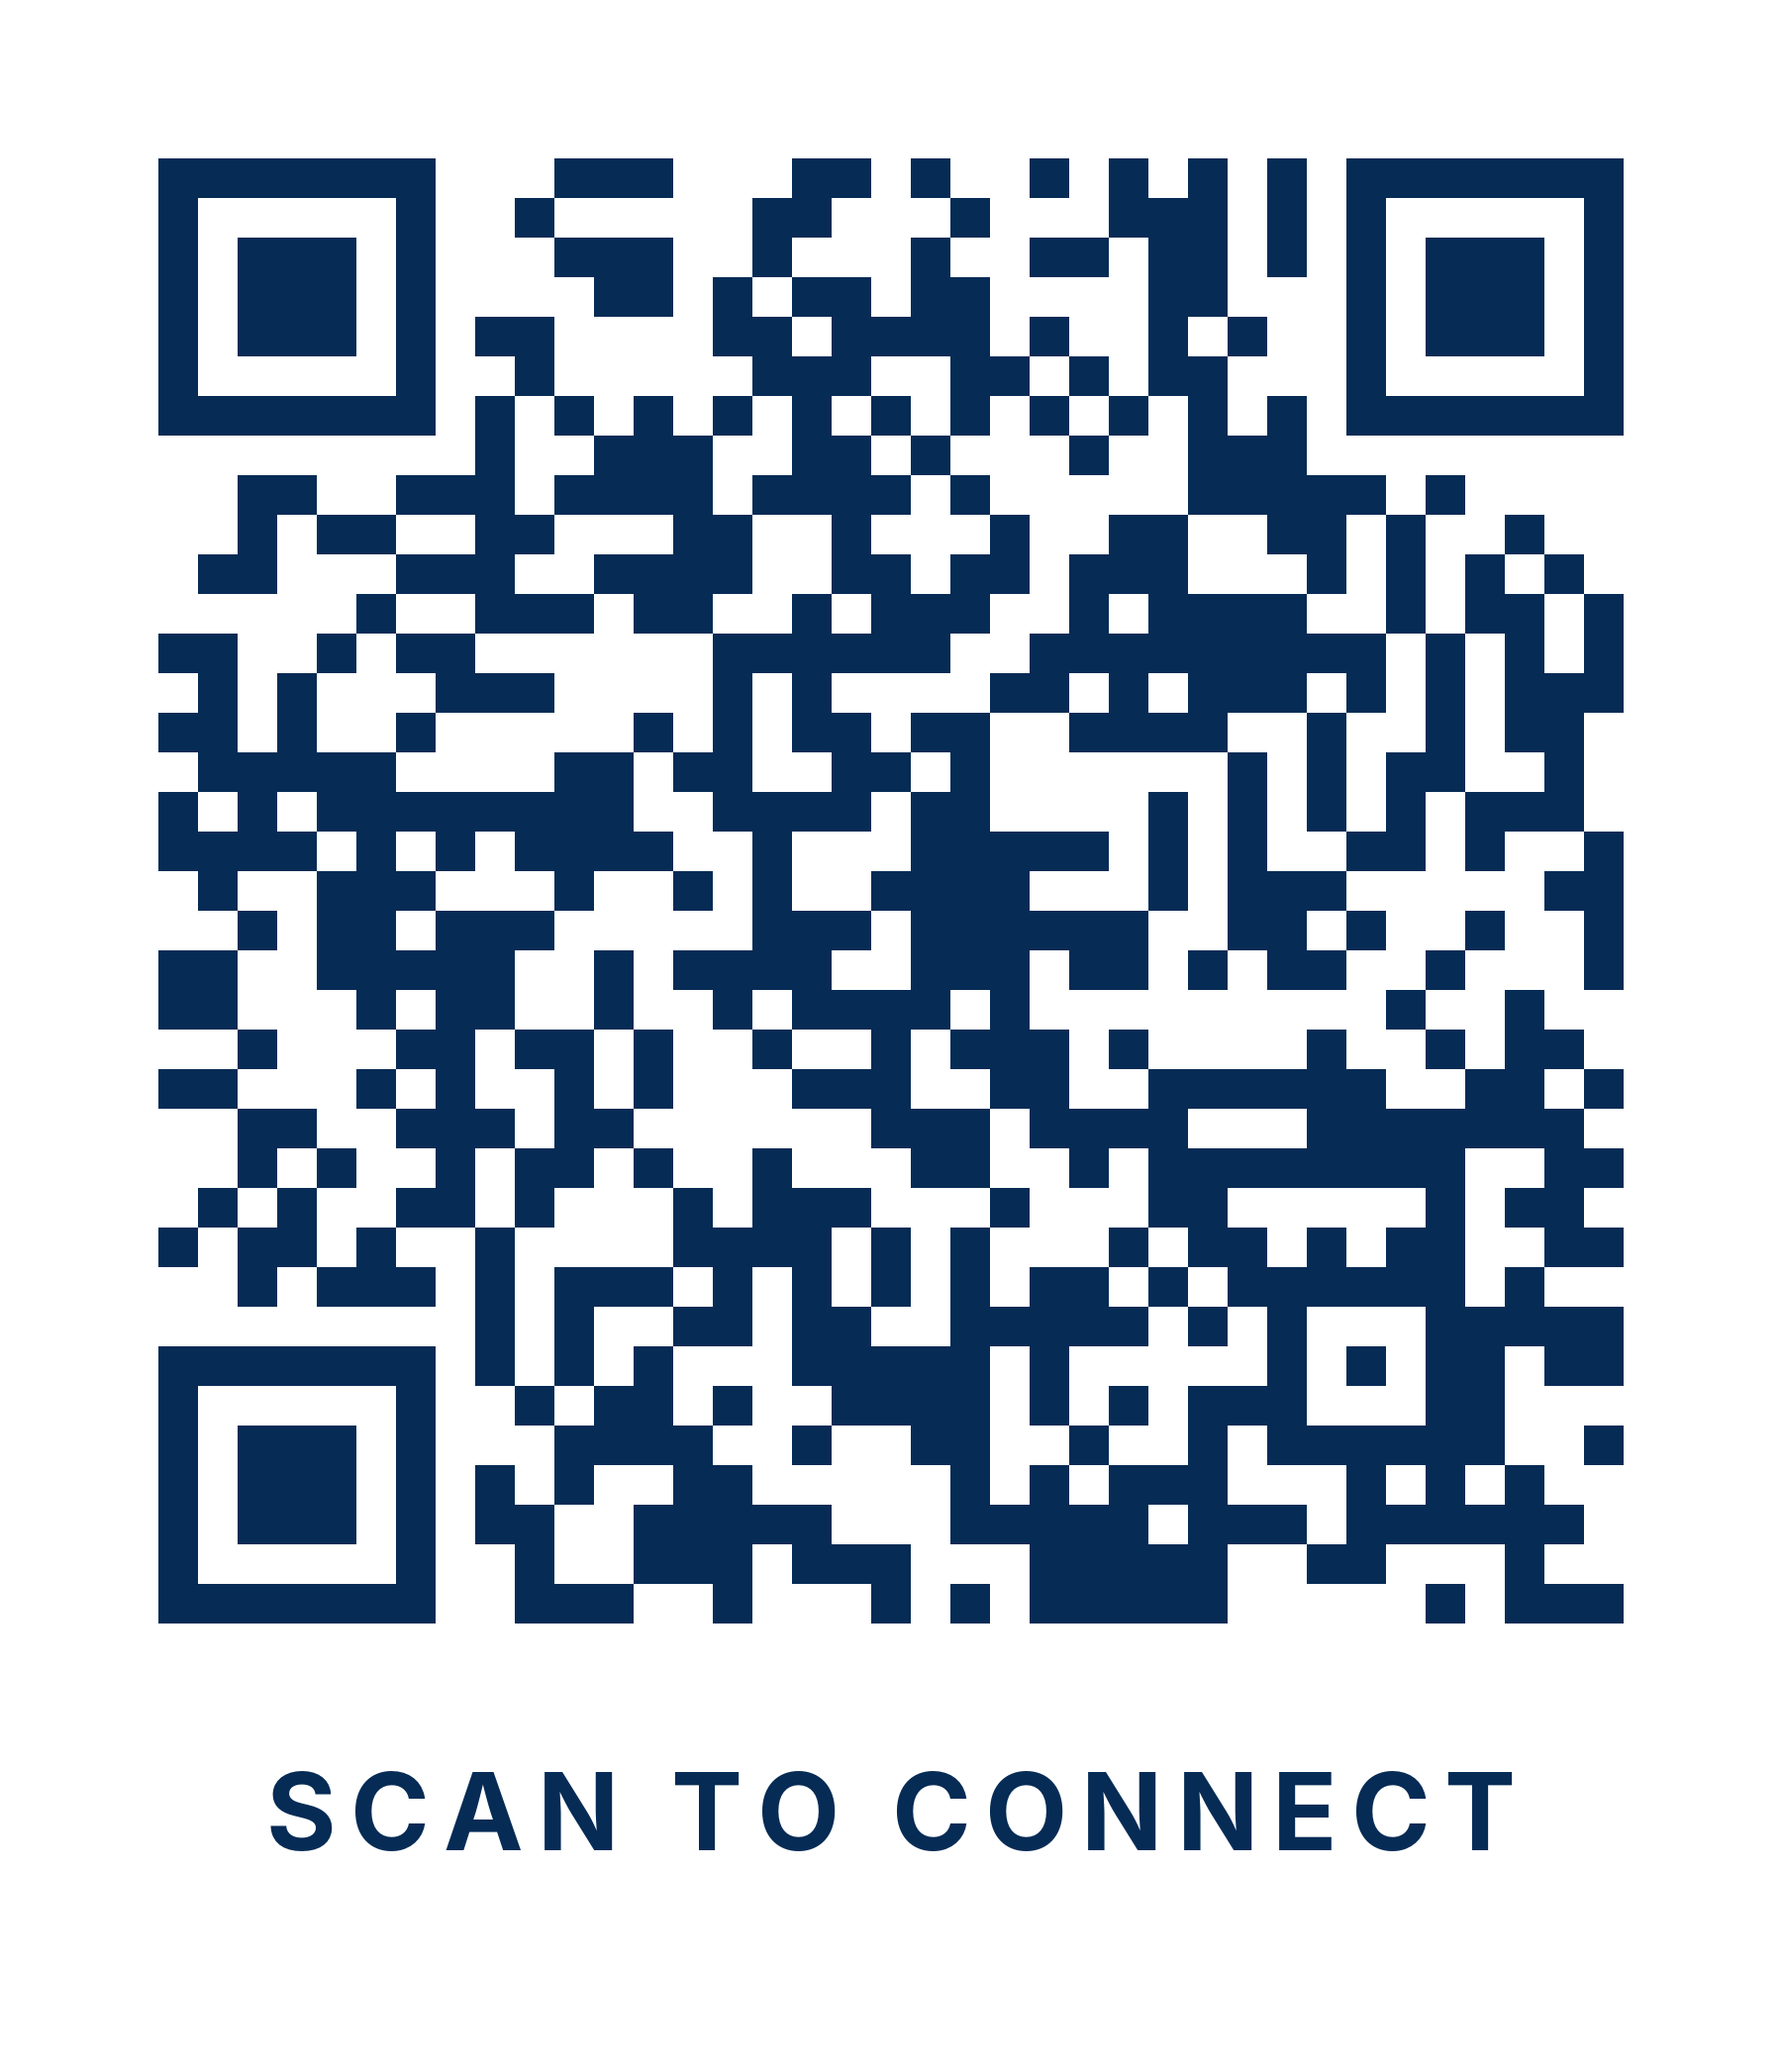
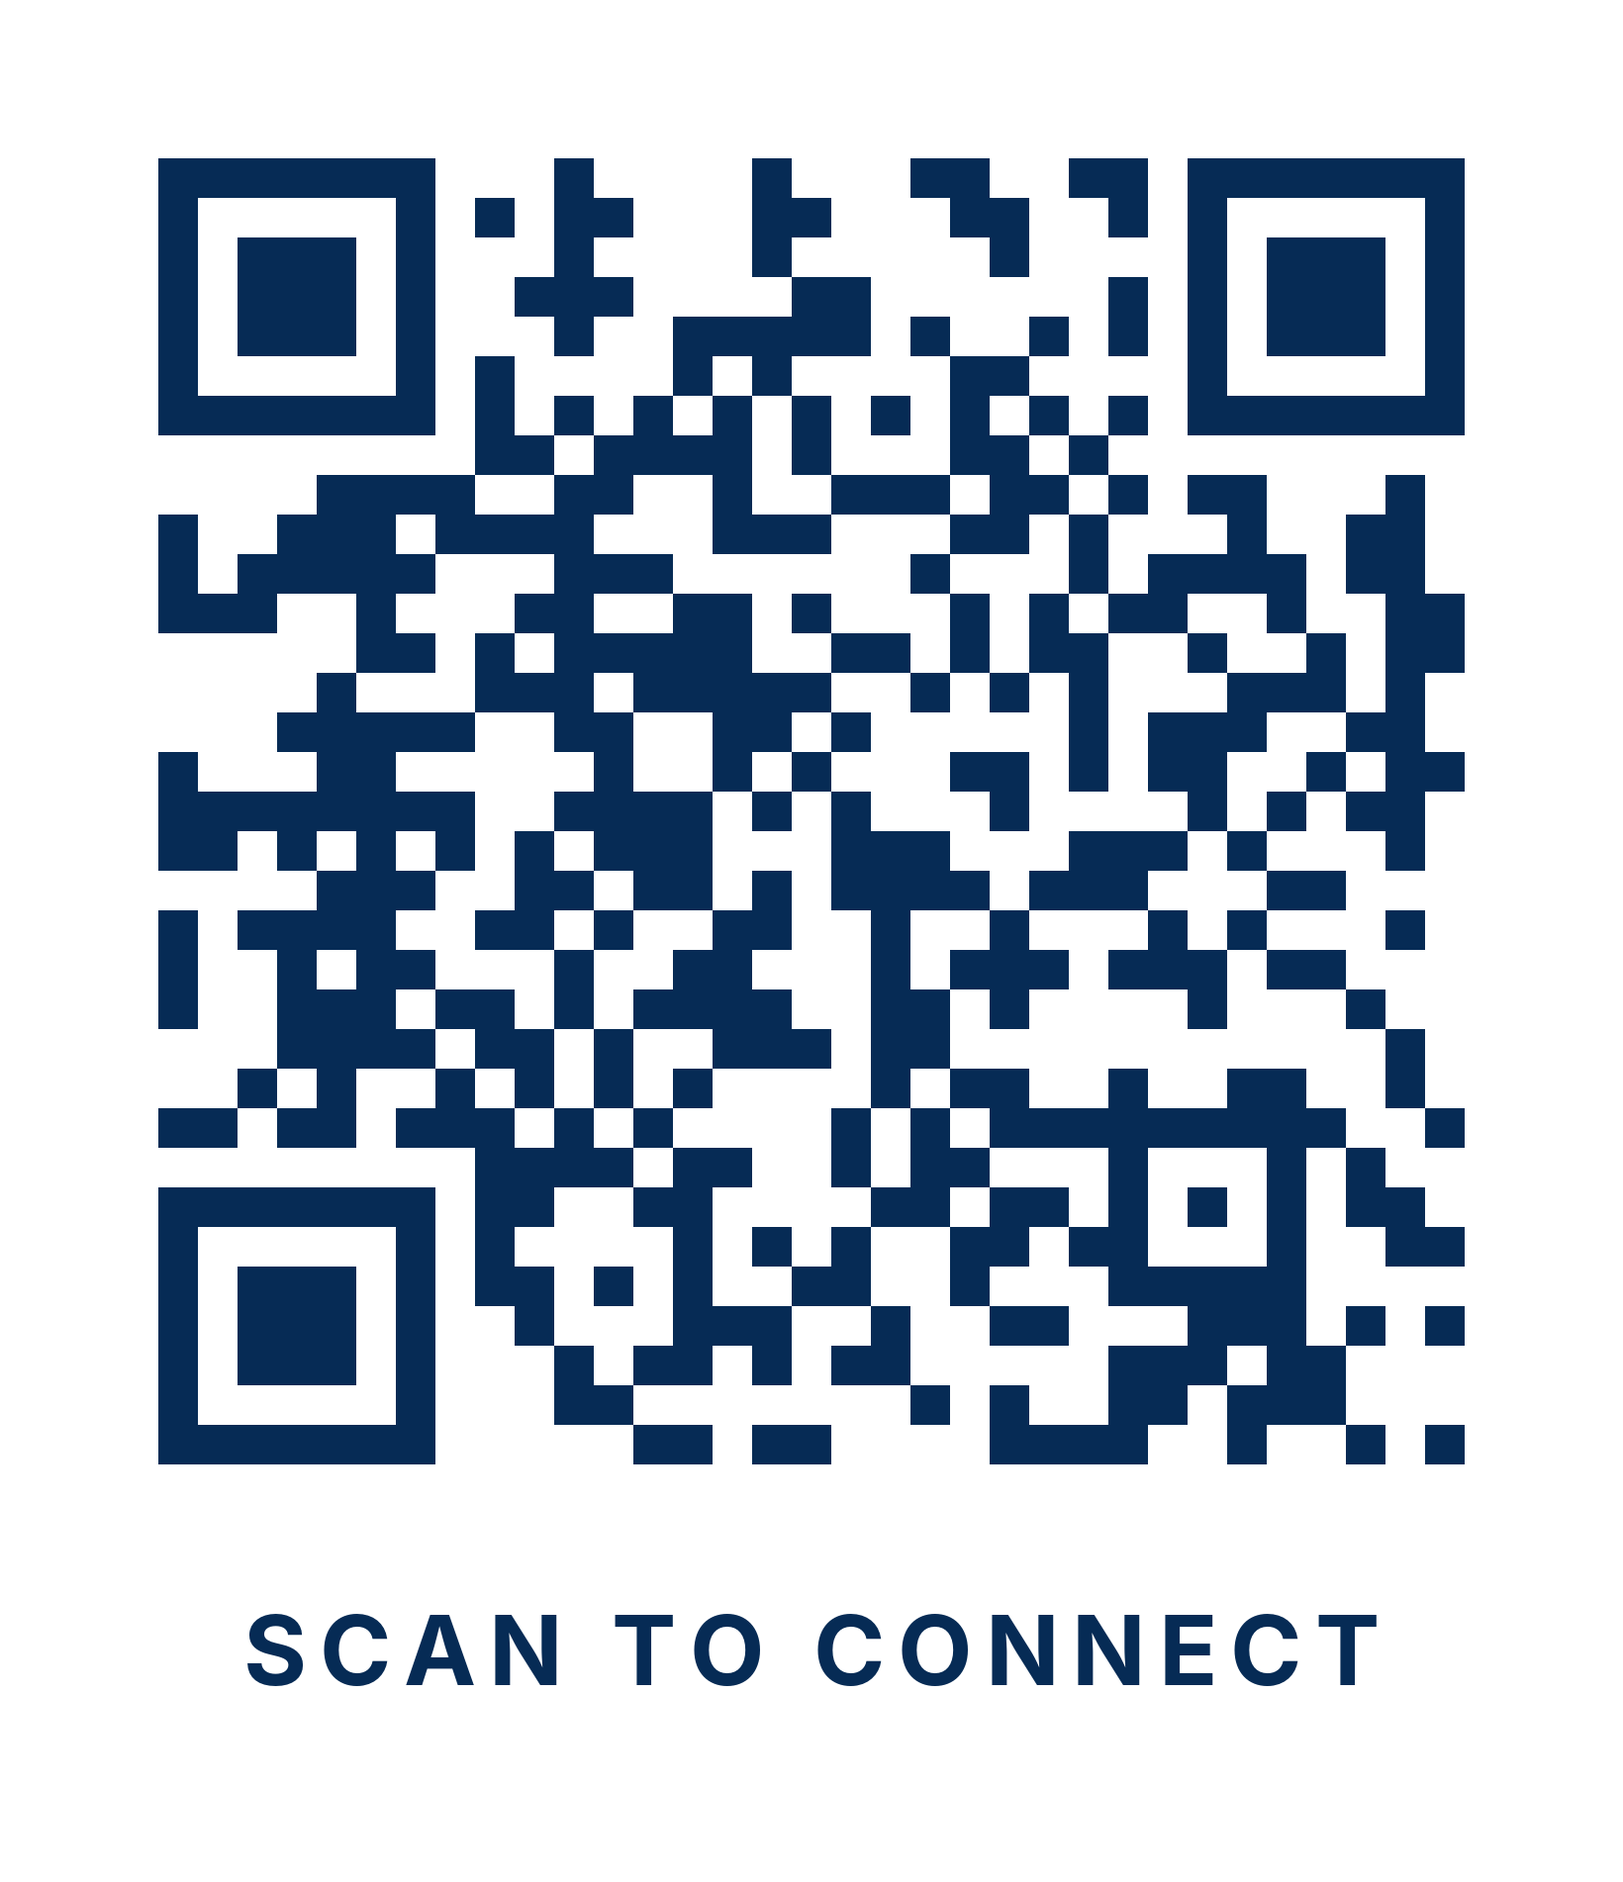
QR codes for sas-wpssession.com
Claude-Session: https://claude.ai/code/session_01WW8gUazz7XDRAvsXHcu2vK

diff --git a/qr-assets/make_qr.py b/qr-assets/make_qr.py
@@ -1,6 +1,6 @@
 import segno, cv2, numpy as np
 from PIL import Image, ImageDraw, ImageFont
-URL="https://mysmo87.github.io/mission-possible/"
+URL="https://sas-wpssession.com/"
 NAVY="#062B55"; out="/home/claude/qr-assets/"
 qr=segno.make(URL, error='h', micro=False)
 print("version",qr.version,"ecc",qr.error)

diff --git a/README.md b/README.md
@@ -1,6 +1,6 @@
 # Mission Possible Contact Hub
 
-Live page: https://mysmo87.github.io/mission-possible/
+Live page: https://sas-wpssession.com/ (backup: https://mysmo87.github.io/mission-possible/)
 
 ## Files
 - `index.html` - page layout, styles and behaviour (no need to edit for contact changes)
